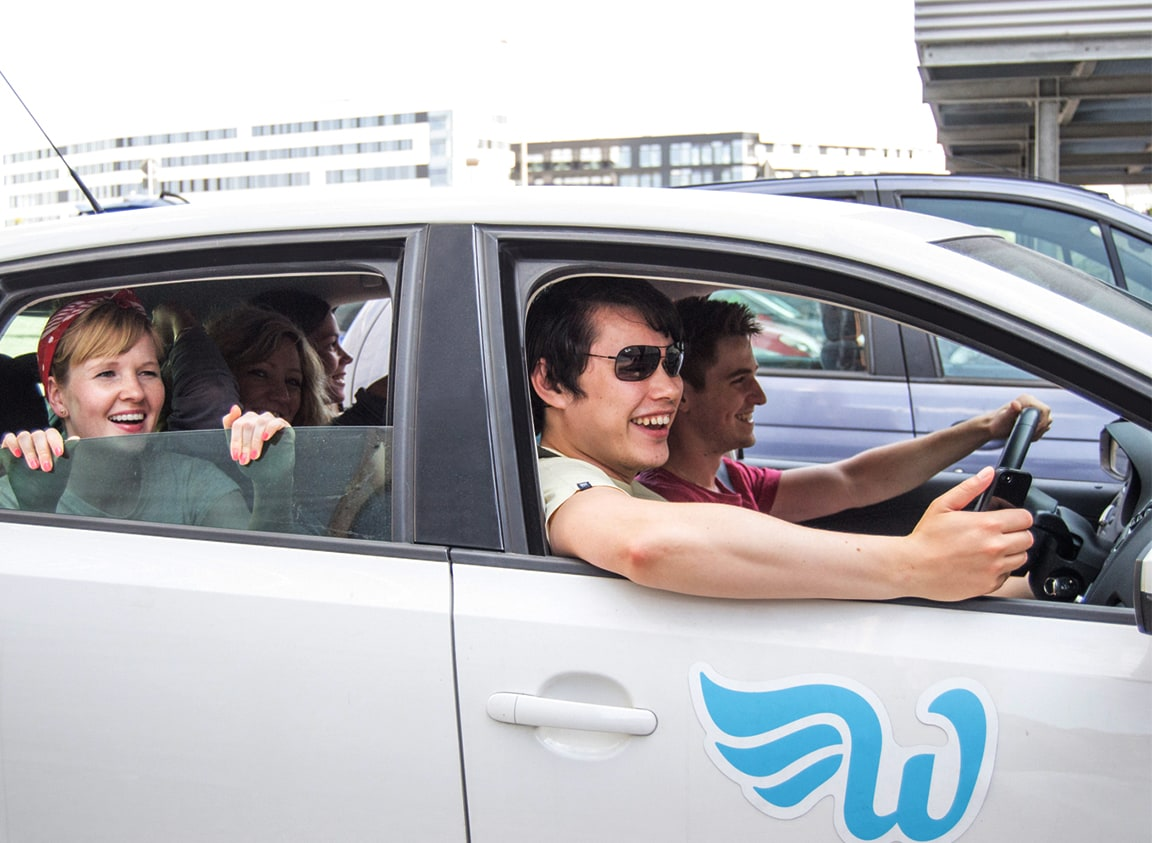
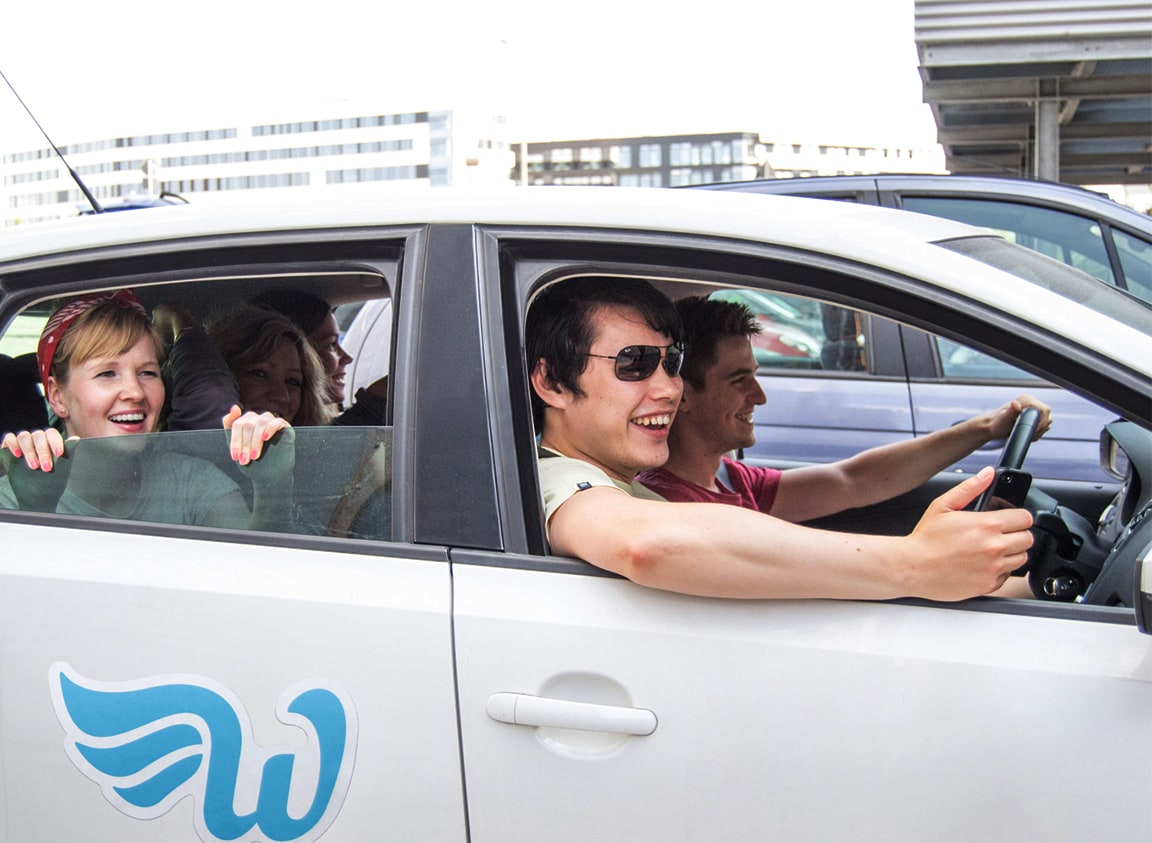
wundercar image, more parallax tweaks and padding

Changed region(s): [[0.0312, 0.7711, 0.3125, 1.0], [0.5938, 0.8019, 0.875, 1.0], [0.9688, 0.8636, 1.0, 0.9561]]

diff --git a/_includes/static/block-aboutus-main.html b/_includes/static/block-aboutus-main.html
@@ -1,7 +1,7 @@
 
 <section class="" id="founders-section">
   <div class="container py-5">
-    <div class="quote-with-image ">
+    <div class="quote-with-image pb-5">
       <div class="row align-items-top">
         <div class="col-lg-5 offset-xl-1 mb-5 mb-lg-0 pb-md-5 text-center rellax">
           <img class="sticky-top" onload="centerOffset(this)" data-rellax-speed="-3" data-src="/uploads/global/gunnar-sam.jpg" data-srcset="/uploads/global/gunnar-sam@2x.jpg 2x" />
@@ -57,7 +57,7 @@
 
           <div class="col-md-5 col-xl-4 offset-md-1">
             <div class="timeline__date-content">
-              <h3 class="timeline__date rellax" data-rellax-speed="-1">
+              <h3 class="timeline__date rellax" data-rellax-speed="-1" data-rellax-zindex="-1">
                 <svg viewBox="0 0 32 57" fill="none" xmlns="http://www.w3.org/2000/svg">
                   <path d="M32 8.90239C21.75 13.8482 16.625 19.6594 16.625 26.3362C21.0417 26.8308 24.6667 28.603 27.5 31.6529C30.3333 34.6204 31.75 38.0824 31.75 42.039C31.75 46.243 30.3333 49.7874 27.5 52.6725C24.75 55.5575 21.2917 57 17.125 57C12.4583 57 8.41667 55.1453 5 51.436C1.66667 47.6443 0 43.0694 0 37.7115C0 21.6377 9.04167 9.06725 27.125 0L32 8.90239Z" />
                 </svg>14-15
@@ -72,8 +72,8 @@
           </div>
           <div class="col-10 offset-1 col-md-6 offset-md-0 col-lg-5 offset-lg-1 offset-xl-1 align-self-md-center align-self-lg-start">
             <div class="timeline__image-content d-flex flex-column align-items-start">
-              <img class="timeline__main-image rellax" data-rellax-speed="1" data-src="/uploads/global/wundercar-people.jpg" data-srcset="/uploads/global/wundercar-people@2x.jpg 2x" >
-              <div class="timeline__logo-image align-self-end rellax" data-rellax-speed="2">
+              <img class="timeline__main-image rellax" data-rellax-speed="1" data-rellax-xs-speed="0" data-src="/uploads/global/wundercar-people.jpg" data-srcset="/uploads/global/wundercar-people@2x.jpg 2x" >
+              <div class="timeline__logo-image align-self-end rellax" data-rellax-speed="2" data-rellax-xs-speed="0">
                 <img data-src="/uploads/global/wundercar-logo.jpg" data-srcset="/uploads/global/wundercar-logo@2x.jpg 2x" >
               </div>
             </div>
@@ -102,8 +102,8 @@
           </div>
           <div class="col-10 offset-1 col-md-6 offset-md-0 col-lg-5 offset-lg-1 offset-xl-1 align-self-md-center align-self-lg-start">
             <div class="timeline__image-content d-flex flex-column align-items-start">
-              <img class="timeline__main-image rellax" data-rellax-speed="1" data-src="/uploads/global/sonam-wunder.jpg" data-srcset="/uploads/global/sonam-wunder@2x.jpg 2x" >
-              <div class="timeline__logo-image align-self-end rellax" data-rellax-speed="2">
+              <img class="timeline__main-image rellax" data-rellax-speed="1" data-rellax-xs-speed="0" data-src="/uploads/global/sonam-wunder.jpg" data-srcset="/uploads/global/sonam-wunder@2x.jpg 2x" >
+              <div class="timeline__logo-image align-self-end rellax" data-rellax-speed="2"  data-rellax-xs-speed="0">
                 <img data-src="/uploads/global/wunder-green.jpg" data-srcset="/uploads/global/wunder-green@2x.jpg 2x" >
               </div>
             </div>
@@ -117,7 +117,7 @@
 
           <div class="col-md-5 col-xl-4 offset-md-1">
             <div class="timeline__date-content">
-              <h3 class="timeline__date rellax" data-rellax-speed="-1">
+              <h3 class="timeline__date rellax" data-rellax-speed="-1" data-rellax-xs-speed="-0.5">
                 <svg viewBox="0 0 32 57" fill="none" xmlns="http://www.w3.org/2000/svg">
                   <path d="M32 8.90239C21.75 13.8482 16.625 19.6594 16.625 26.3362C21.0417 26.8308 24.6667 28.603 27.5 31.6529C30.3333 34.6204 31.75 38.0824 31.75 42.039C31.75 46.243 30.3333 49.7874 27.5 52.6725C24.75 55.5575 21.2917 57 17.125 57C12.4583 57 8.41667 55.1453 5 51.436C1.66667 47.6443 0 43.0694 0 37.7115C0 21.6377 9.04167 9.06725 27.125 0L32 8.90239Z" />
                 </svg>18-19
@@ -133,8 +133,8 @@
           </div>
           <div class="col-10 offset-1 col-md-6 offset-md-0 col-lg-5 offset-lg-1 offset-xl-1 align-self-md-center align-self-lg-start">
             <div class="timeline__image-content d-flex flex-column align-items-start">
-              <img class="timeline__main-image rellax" data-rellax-speed="1" data-src="/uploads/global/yannick-hafencity.jpg" data-srcset="/uploads/global/yannick-hafencity@2x.jpg 2x" >
-              <div class="timeline__logo-image align-self-end rellax" data-rellax-speed="2">
+              <img class="timeline__main-image rellax" data-rellax-speed="1" data-rellax-xs-speed="0" data-src="/uploads/global/yannick-hafencity.jpg" data-srcset="/uploads/global/yannick-hafencity@2x.jpg 2x" >
+              <div class="timeline__logo-image align-self-end rellax" data-rellax-speed="2" data-rellax-xs-speed="0">
                 <img data-src="/uploads/global/wunder-mobility-black.svg" >
               </div>
             </div>
@@ -148,7 +148,7 @@
 
           <div class="col-md-5 col-xl-4 offset-md-1 order-md-2">
             <div class="timeline__date-content">
-              <h3 class="timeline__date shift-left shift-left-less rellax" data-rellax-speed="-1">
+              <h3 class="timeline__date shift-left shift-left-less rellax" data-rellax-speed="-1" data-rellax-xs-speed="-0.5">
                 <svg viewBox="0 0 32 57" fill="none" xmlns="http://www.w3.org/2000/svg">
                   <path d="M32 8.90239C21.75 13.8482 16.625 19.6594 16.625 26.3362C21.0417 26.8308 24.6667 28.603 27.5 31.6529C30.3333 34.6204 31.75 38.0824 31.75 42.039C31.75 46.243 30.3333 49.7874 27.5 52.6725C24.75 55.5575 21.2917 57 17.125 57C12.4583 57 8.41667 55.1453 5 51.436C1.66667 47.6443 0 43.0694 0 37.7115C0 21.6377 9.04167 9.06725 27.125 0L32 8.90239Z" />
                 </svg>20
@@ -163,7 +163,7 @@
           </div>
           <div class="col-10 offset-1 col-md-6 offset-md-0 col-lg-5 offset-lg-1 offset-xl-1 align-self-md-center align-self-lg-start">
             <div class="timeline__image-content d-flex flex-column align-items-start">
-              <img class="timeline__main-image mw-100 rellax" data-rellax-speed="1" data-src="/uploads/global/team-wms.jpg" data-srcset="/uploads/global/team-wms@2x.jpg 2x" >
+              <img class="timeline__main-image mw-100 rellax" data-rellax-speed="1"  data-rellax-xs-speed="0" data-src="/uploads/global/team-wms.jpg" data-srcset="/uploads/global/team-wms@2x.jpg 2x" >
             </div>
           </div>
 

diff --git a/assets/js/main.js b/assets/js/main.js
@@ -13,7 +13,7 @@ window.addEventListener('load', function() {
 });
 
 var centerOffset = function(element) {
-  var topOffset = ($(window).height() / 2) - ($(element).height() / 1.5)
+  var topOffset = ($(window).height() / 2) - ($(element).height() / 1.3)
   $(element).css('top', topOffset);
 }
 
@@ -627,28 +627,29 @@ $(document).ready(function() {
   var hpScrollerWidth = $(".home-quotes .mob-scroll").width();
   $(".home-quotes .mob-scroll").scrollLeft( hpScrollerWidth/2 );
 
-
-  // set up event for when a form field is filled but the form is not sent - used with GMT
-  window.addEventListener('beforeunload', function() {
-    dataLayer.push({
-  	  event: 'beforeunload'
-  	});
-    if (formHistory.length) {
+  if($("form#main-contact").length >= 1) {
+    // set up event for when a form field is filled but the form is not sent - used with GMT
+    window.addEventListener('beforeunload', function() {
       dataLayer.push({
-        'event' : 'formInteraction',
-        'eventCategory' : 'Form Interaction',
-        'eventAction' : formHistory.join(' > ')
-      });
-    }
-  });
-  var formSelector = 'form#main-contact';
-  var attribute = 'name';
-  document.querySelector(formSelector).addEventListener('change', function(e) {
-    var vieldName = e['target'].getAttribute(attribute);
-    //console.log('form changed: ' + vieldName)
-    //dataLayer.push({ 'event': 'fieldFilled', 'eventAction': vieldName });
-    formHistory.push(vieldName);
-    //console.log(formHistory);
-  });
+    	  event: 'beforeunload'
+    	});
+      if (formHistory.length) {
+        dataLayer.push({
+          'event' : 'formInteraction',
+          'eventCategory' : 'Form Interaction',
+          'eventAction' : formHistory.join(' > ')
+        });
+      }
+    });
+    var formSelector = 'form#main-contact';
+    var attribute = 'name';
+    document.querySelector(formSelector).addEventListener('change', function(e) {
+      var vieldName = e['target'].getAttribute(attribute);
+      //console.log('form changed: ' + vieldName)
+      //dataLayer.push({ 'event': 'fieldFilled', 'eventAction': vieldName });
+      formHistory.push(vieldName);
+      //console.log(formHistory);
+    });
+  }
 
 });

diff --git a/_sass/hp/_company.scss b/_sass/hp/_company.scss
@@ -1,0 +1,16 @@
+.about {
+
+
+  #wunder-locations {
+    img {
+      @include rwd(mobile-down) {
+        width: 100%;
+        max-height: 400px;
+        object-fit: cover;
+        object-position: center;
+      }
+    }
+  }
+
+
+}

diff --git a/css/styles-hp.scss b/css/styles-hp.scss
@@ -24,5 +24,6 @@
 @import "pages/_home";
 @import "pages/_blog";
 @import "hp/_products";
+@import "hp/_company";
 
 @import "hp/_global";
